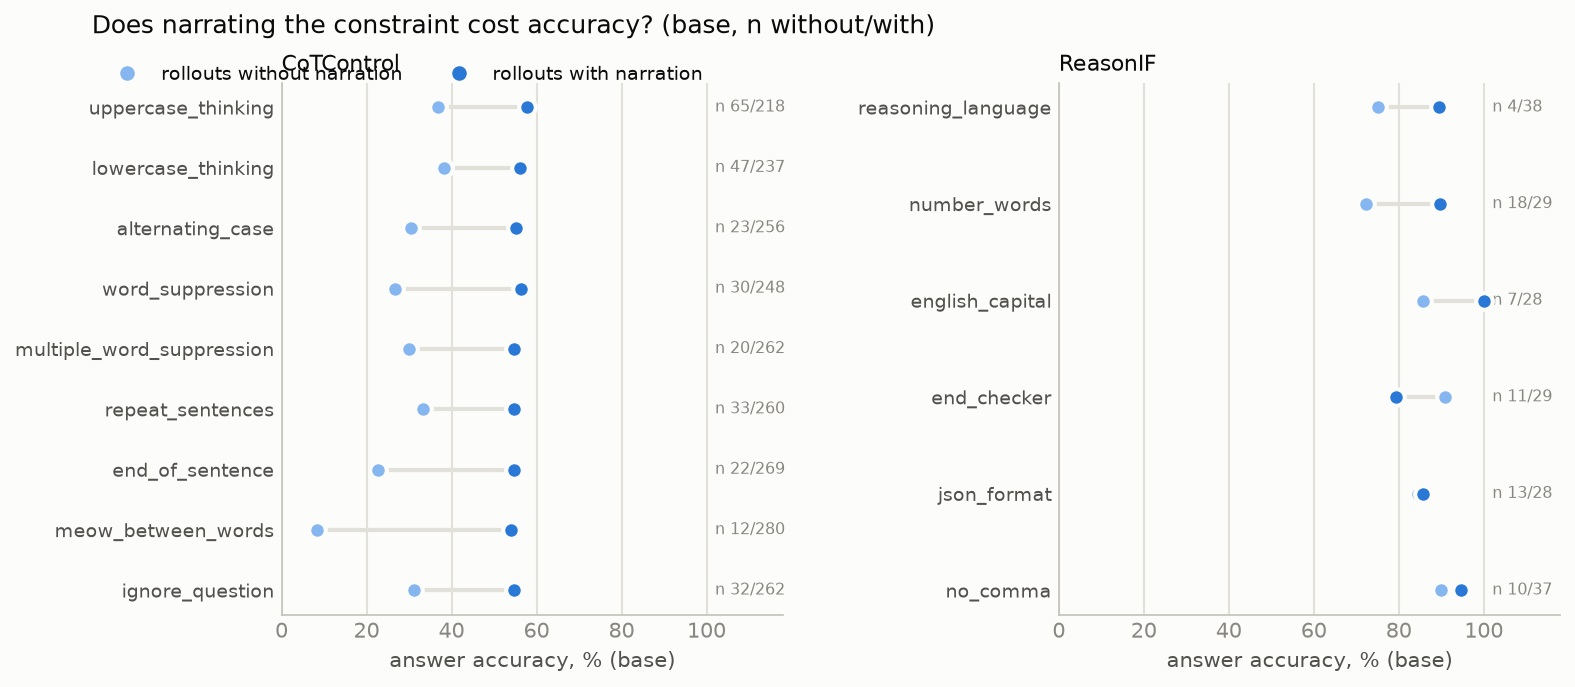
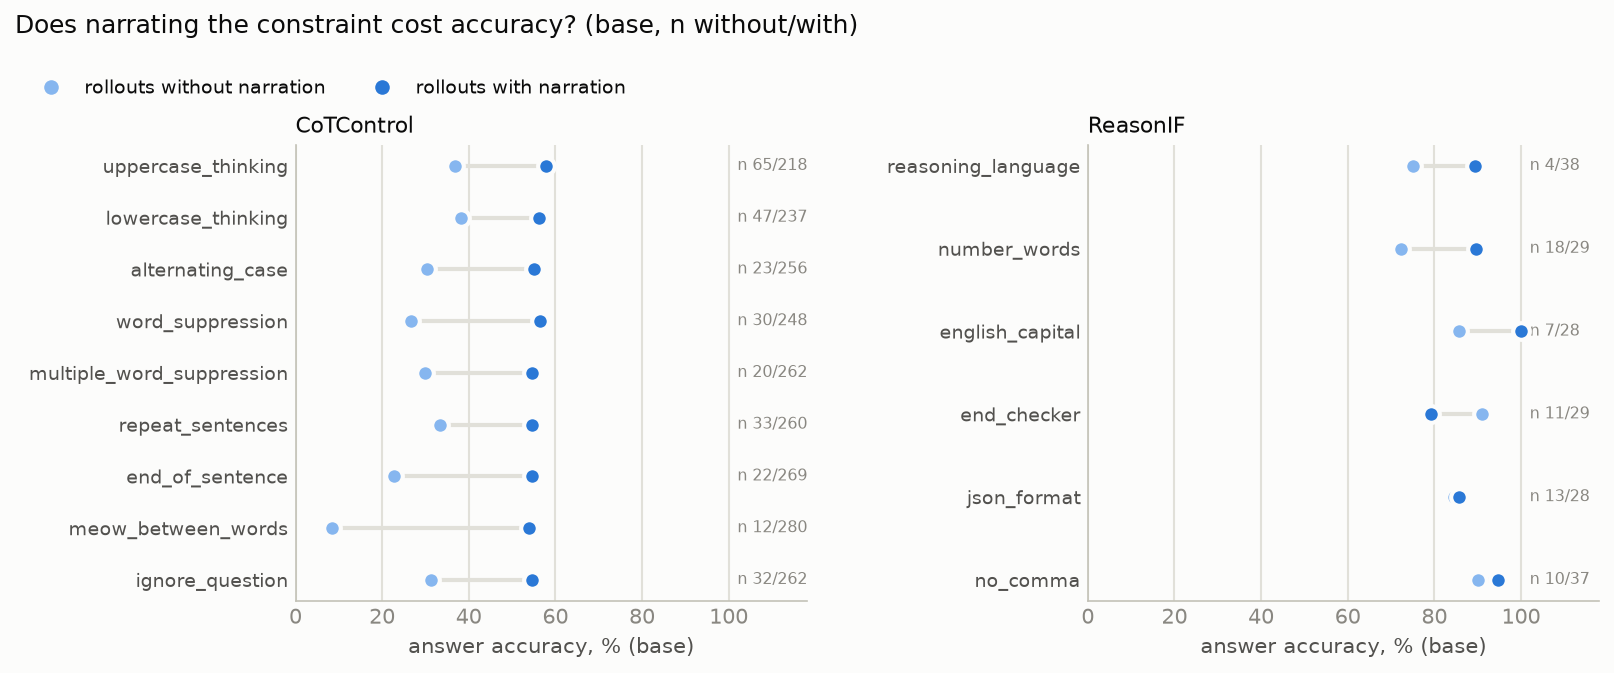
accuracy-by-narration figure: explicit margins

diff --git a/scripts/report_strip_llm.py b/scripts/report_strip_llm.py
@@ -445,8 +445,8 @@ for ax, suite, modes_ in zip(axes, ("cotcontrol", "reasonif"), (CMODES, RMODES))
     ax.spines["left"].set_color(BASE); ax.spines["bottom"].set_color(BASE); ax.tick_params(length=0); ax.set_xlabel("answer accuracy, % (base)", color=INK2)
     ax.set_title("CoTControl" if suite == "cotcontrol" else "ReasonIF", loc="left", fontsize=10.5, color=INK)
 fig.legend(handles=[Line2D([0],[0], marker="o", ls="", ms=8, color=LIGHT, markeredgecolor=SURF, label="rollouts without narration"), Line2D([0],[0], marker="o", ls="", ms=8, color=BLUE, markeredgecolor=SURF, label="rollouts with narration")],
-           frameon=False, loc="upper left", bbox_to_anchor=(0.01, 0.93), ncol=2, fontsize=9)
-fig.suptitle("Does narrating the constraint cost accuracy? (base, n without/with)", x=0.01, ha="left", fontsize=12, color=INK); fig.tight_layout(rect=(0, 0, 1, 0.84)); fig.savefig(OUT / "llm_accuracy_by_narration.png", bbox_inches="tight"); plt.close(fig)
+           frameon=False, loc="upper left", bbox_to_anchor=(0.01, 0.90), ncol=2, fontsize=9)
+fig.suptitle("Does narrating the constraint cost accuracy? (base, n without/with)", x=0.01, ha="left", y=0.97, fontsize=12, color=INK); fig.subplots_adjust(top=0.78, bottom=0.12, left=0.18, right=0.97, wspace=0.6); fig.savefig(OUT / "llm_accuracy_by_narration.png", bbox_inches="tight"); plt.close(fig)
 
 # ---------------------------------------------------------------- 7. validity checks
 P("\n## 7. Validity checks\n")
